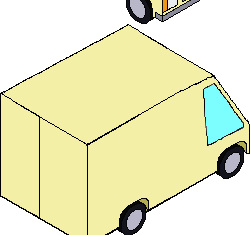
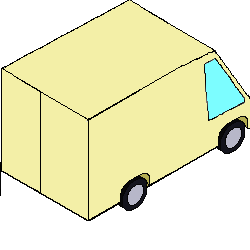
DriveBus 99%

diff --git a/game_iso_city/server/assetsTiles.js b/game_iso_city/server/assetsTiles.js
@@ -140,9 +140,9 @@ assetsTiles = new IgeClass({
 			"asset_anchor_points" : [ 
 			[ 
 			125, 
-			124 ] ],
-			"asset_sheet_width" : 1,
-			"asset_sheet_height" : 4,
+			125 ] ],
+			"asset_sheet_width" : 4,
+			"asset_sheet_height" : 1,
 			"asset_render_mode" : ASSET_RENDER_MODE_ISOMETRIC,
 			"asset_locale" : LOCALE_EVERYWHERE,
 			"asset_persist" : PERSIST_DISABLED
